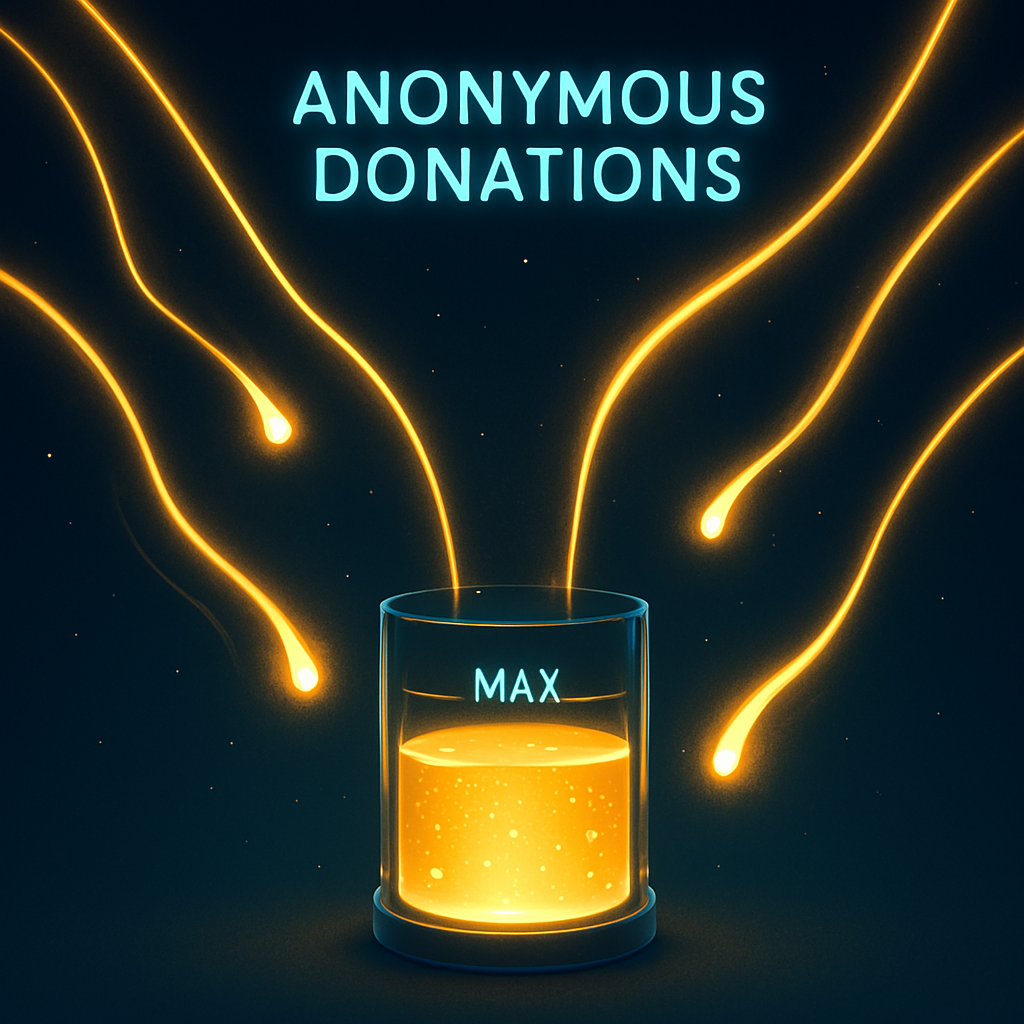
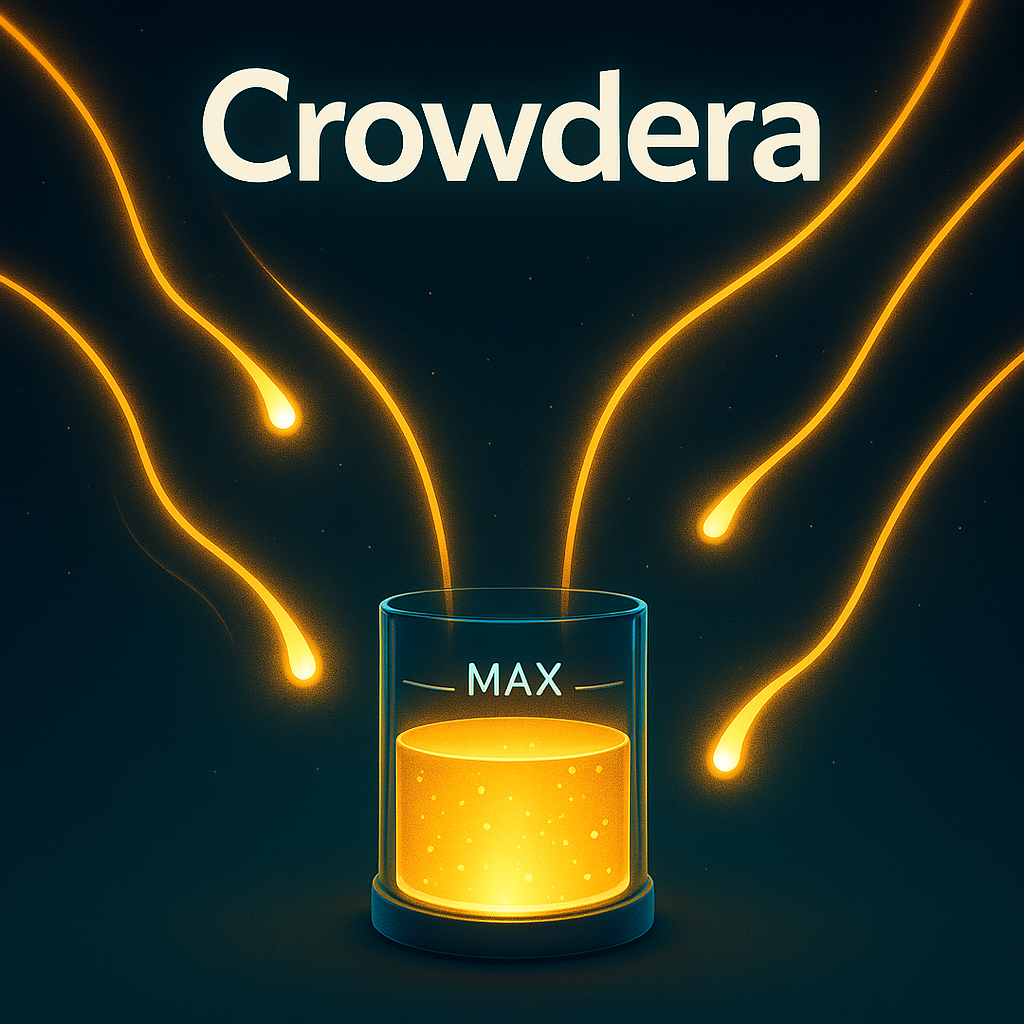
edit readme

diff --git a/README.md b/README.md
@@ -1,4 +1,8 @@
+<<<<<<< HEAD
 # Crowdera: Anonymous funding event Platform
+=======
+# Crowdera ZK-Enhanced Event Funding Platform
+>>>>>>> 05cead4 (edit readme)
 
 ![Anonymous Donations with Maximum Cap](./cover.png)
 
